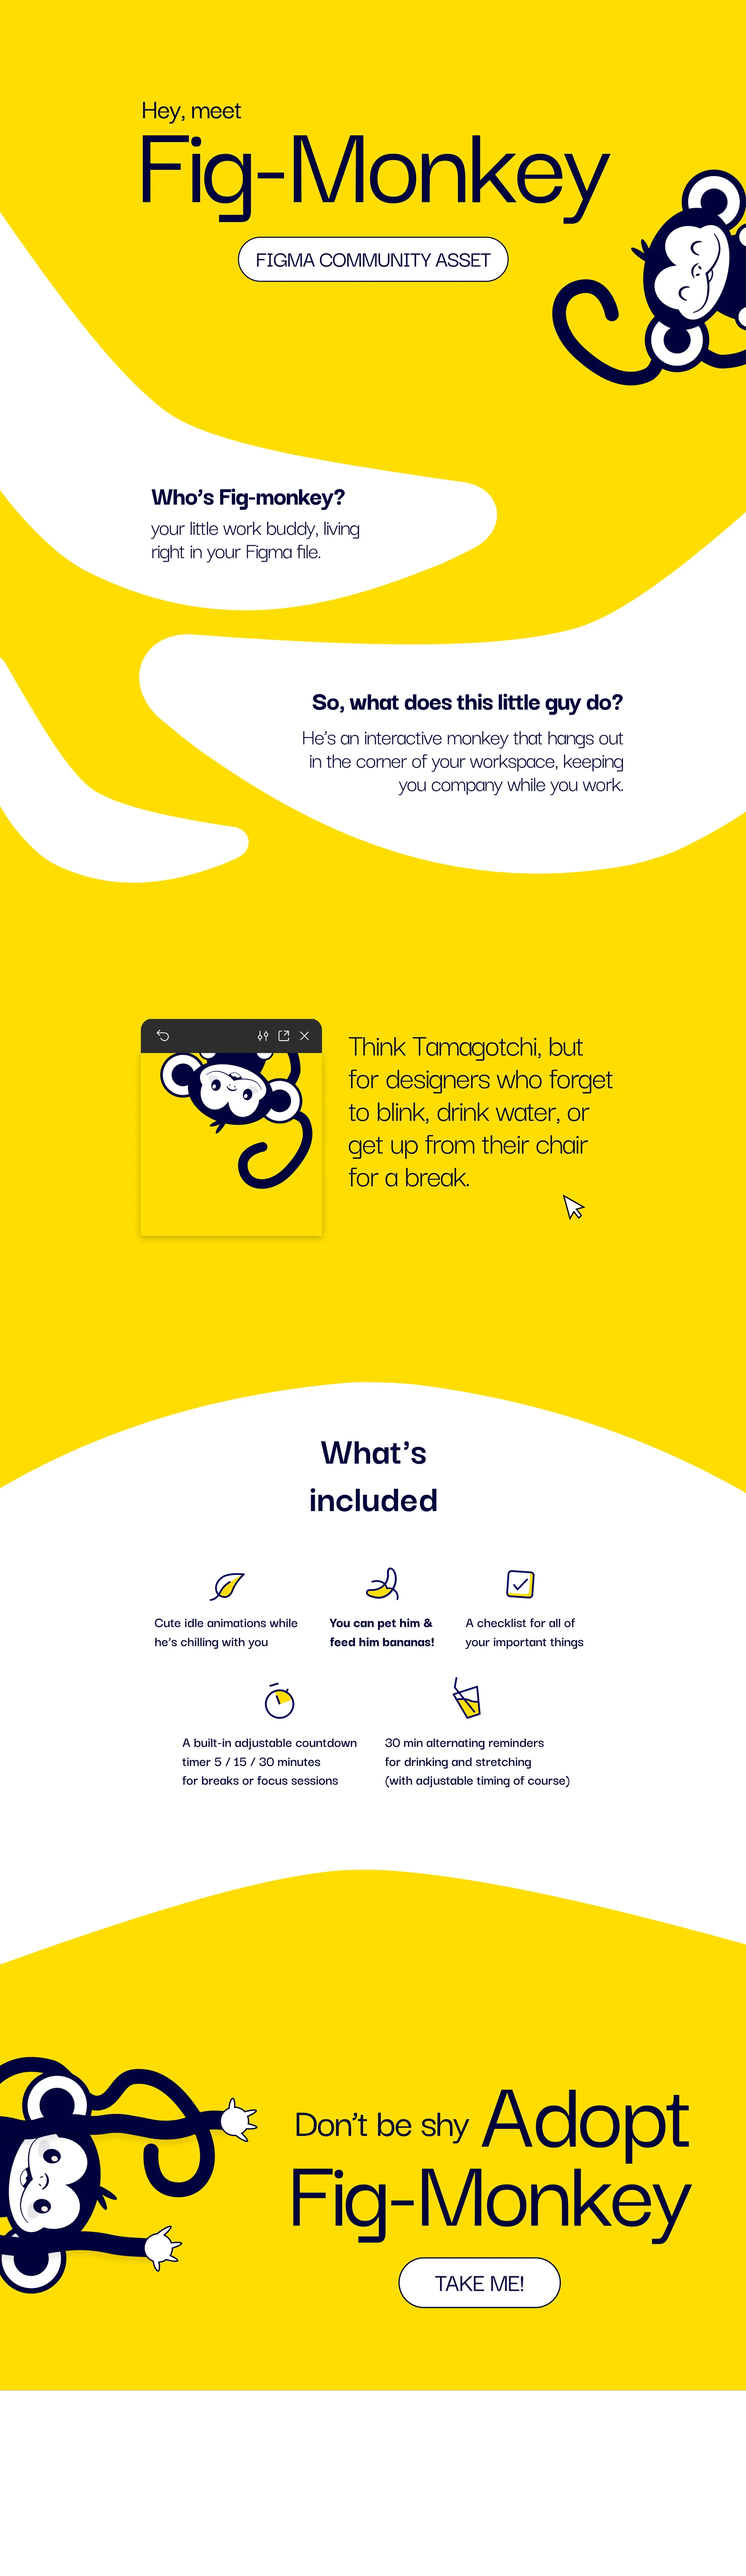
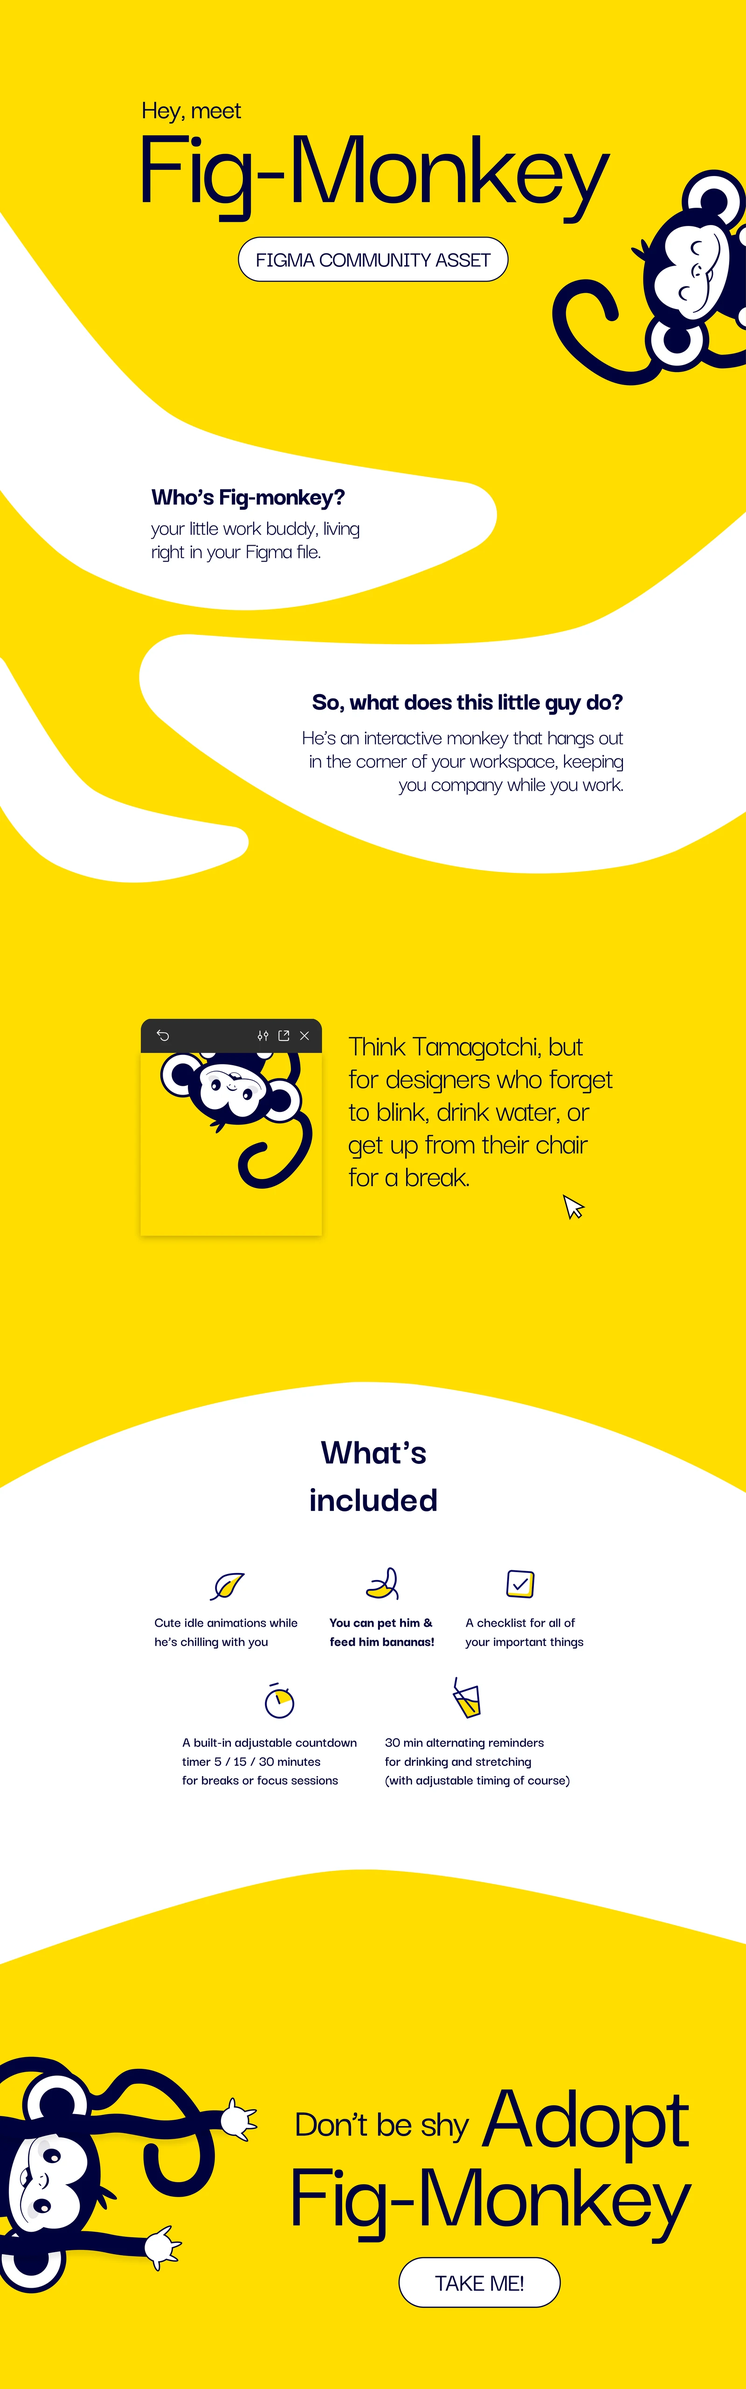
Remove Fig-Monkey responsive demo for now and trim the landing page image

diff --git a/index.html b/index.html
@@ -680,29 +680,6 @@
     .fm-icons { grid-template-columns: repeat(3, 1fr); }
   }
 
-  /* Fig-Monkey responsive demo: the browser frame narrows from desktop to
-     phone width while the desktop page fades into the mobile page, then back */
-  .page.aligned .fm-resp-caption { text-align: left !important; }
-  .fm-resp-stage { display: flex; justify-content: center; background: #fffbe0; border-radius: 18px; padding: 28px; }
-  .fm-resp-frame {
-    width: 100%; height: 440px; display: flex; flex-direction: column; overflow: hidden;
-    background: #fff; border-radius: 14px; box-shadow: 0 10px 30px rgba(0,0,0,0.12);
-    transition: width 1.6s cubic-bezier(0.65, 0, 0.35, 1);
-  }
-  .fm-resp-frame.is-mobile { width: 230px; }
-  .fm-resp-bar { flex: none; height: 22px; display: flex; align-items: center; gap: 5px; padding: 0 10px; background: #f0f0f0; }
-  .fm-resp-bar span { width: 7px; height: 7px; border-radius: 50%; background: #cfcfcf; }
-  .fm-resp-screen { position: relative; flex: 1; overflow: hidden; }
-  /* Both screen recordings fill the frame and keep playing while it resizes */
-  .fm-resp-screen video { position: absolute; inset: 0; width: 100%; height: 100%; object-fit: cover; object-position: top center; display: block; transition: opacity 1.2s ease; }
-  .fm-resp-mobile { opacity: 0; }
-  .fm-resp-frame.is-mobile .fm-resp-mobile { opacity: 1; }
-  .fm-resp-frame.is-mobile .fm-resp-desktop { opacity: 0; }
-  @media (prefers-reduced-motion: reduce) {
-    .fm-resp-frame, .fm-resp-screen video { transition: none; }
-  }
-  @media (max-width: 700px) { .fm-resp-frame { height: 320px; } .fm-resp-stage { padding: 16px; } }
-
   /* Zoomed lightbox images are moved by dragging */
   #lightbox-img-scroll { scrollbar-width: none; }
   #lightbox-img-scroll::-webkit-scrollbar { display: none; }
@@ -1598,20 +1575,6 @@
                   <img class="screen-img" src="fig-monkey/design-system/landing-page-typography.webp" alt="Landing page typography" style="border-radius: 8px; width: 100%; display: block;">
                   <div class="zoom-overlay"><svg viewBox="0 0 24 24" fill="none" stroke="white" stroke-width="2"><circle cx="11" cy="11" r="7"/><line x1="21" y1="21" x2="16.65" y2="16.65"/></svg></div>
                 </div>
-            </div>
-          </div>
-        </div>
-      </div>
-
-      <!-- The landing page adapting from desktop to mobile -->
-      <div class="detail-section">
-        <p class="video-caption fm-resp-caption">From desktop to mobile</p>
-        <div class="fm-resp-stage" aria-label="The landing page resizing from desktop to mobile">
-          <div class="fm-resp-frame">
-            <div class="fm-resp-bar"><span></span><span></span><span></span></div>
-            <div class="fm-resp-screen">
-              <video class="fm-resp-desktop" src="fig-monkey/fig-monkey-landing-page-video.mp4" autoplay muted playsinline preload="metadata" aria-hidden="true"></video>
-              <video class="fm-resp-mobile" src="fig-monkey/landing-page-mobile.mp4" autoplay muted playsinline preload="metadata" aria-hidden="true"></video>
             </div>
           </div>
         </div>
@@ -2593,38 +2556,6 @@
     }
   });
   syncPageVideos();
-
-  // Fig-Monkey responsive demo. The mobile recording is longer than the
-  // desktop one, so it runs faster to stay on the same part of the page;
-  // both restart together. The frame switches view every few seconds.
-  (function setUpResponsiveDemo() {
-    const frame = document.querySelector('.fm-resp-frame');
-    if (!frame) return;
-    const desk = frame.querySelector('.fm-resp-desktop');
-    const mob = frame.querySelector('.fm-resp-mobile');
-    const match = () => {
-      if (desk.duration && mob.duration) mob.playbackRate = mob.duration / desk.duration;
-    };
-    desk.addEventListener('loadedmetadata', match);
-    mob.addEventListener('loadedmetadata', match);
-    match();
-    desk.addEventListener('ended', () => {
-      desk.currentTime = 0;
-      mob.currentTime = 0;
-      if (!desk.dataset.userPaused) { desk.play().catch(() => {}); mob.play().catch(() => {}); }
-    });
-    // Nudge the mobile clip back in step if it drifts
-    desk.addEventListener('timeupdate', () => {
-      if (!desk.duration || !mob.duration) return;
-      const target = desk.currentTime / desk.duration * mob.duration;
-      if (Math.abs(mob.currentTime - target) > 0.4) mob.currentTime = target;
-    });
-    const reduce = window.matchMedia('(prefers-reduced-motion: reduce)').matches;
-    if (!reduce) setInterval(() => {
-      if (document.hidden || !frame.closest('.page.active')) return;
-      frame.classList.toggle('is-mobile');
-    }, 4500);
-  })();
 
   function openVideoLightbox(src, title) {
     openLightbox('VIDEO:' + src, null, null, title);
